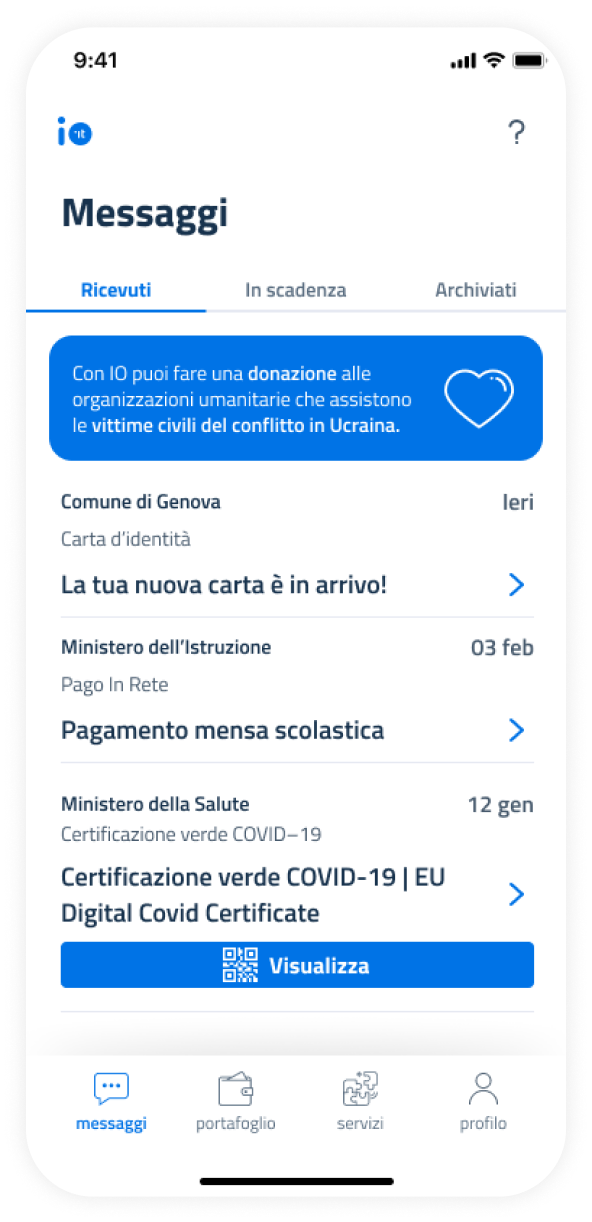
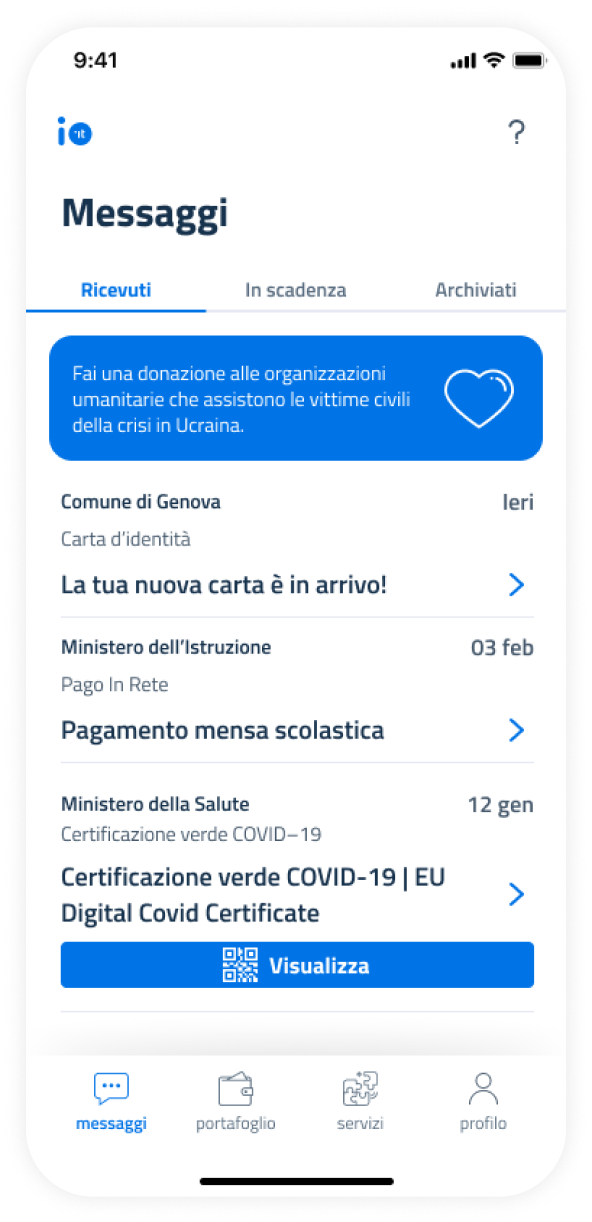
Update content and assets after the internal review

Changed region(s): [[0.1216, 0.2799, 0.6993, 0.3732]]

diff --git a/_includes/donazioni-ucraina-page.html b/_includes/donazioni-ucraina-page.html
@@ -7,11 +7,10 @@
           <div class="row">
               <div class="offset-lg-3 col-lg-6 py-0 py-lg-4">
               <h2 class="my-4 text-primary text-center">
-                Perché questa iniziativa?
+                Vuoi contribuire?
               </h2>
                   <p class="text-primary text-center">
-                    Il conflitto in Ucraina riguarda tutti noi.<br />
-                    Per questo, abbiamo deciso di offrire su IO la possibilità di raccogliere fondi a commissioni zero a favore delle organizzazioni umanitarie che assistono le vittime civili.
+                    In questa pagina, trovi un'anteprima dei principali passaggi che dovrai compiere sull'app IO per fare la tua donazione.
                   </p>
               </div>
           </div><!--/row-->
@@ -34,7 +33,7 @@
               <span class="d-block font-weight-normal">01</span>Apri IO e premi sul box azzurro
               </h3>
             <p>
-              Apri l’app IO ed entra con SPID o CIE. Poi, premi sul banner azzurro che trovi nella parte alta della schermata. Se non lo vedi, vai allo store del tuo dispositivo e verifica di avere scaricato l’ultima versione dell’app. 
+              Apri l’app IO ed entra con SPID o CIE. Poi, premi sul box azzurro che trovi in evidenza nella sezione Messaggi. Se non lo vedi, vai allo store del tuo dispositivo e verifica di avere scaricato l’ultima versione dell’app. 
             </p>
           
           </div>
@@ -59,7 +58,7 @@
               <span class="d-block font-weight-normal">02</span>Scegli a chi donare
               </h3>
             <p>
-              Scegli un’organizzazione umanitaria tra quelle che aderiscono all’iniziativa. Poi, seleziona l’importo che vuoi donare e premi “Continua”.
+              Scegli un’organizzazione umanitaria tra quelle che trovi nella lista. Poi, seleziona l’importo che vuoi donare e premi “Continua”.
             </p>
           </div>
          </div><!--/row-->
@@ -82,7 +81,7 @@
               <h3 class="h2 text-primary pb-4 pt-lg-4">
               <span class="d-block font-weight-normal">03</span>Completa il pagamento
               </h3>
-            <p>Usa la tua carta di credito, debito o prepagata preferita o selezionala dal Portafoglio. Infine, premi “Paga” per completare la donazione: l’organizzazione riceverà l’importo direttamente sul conto corrente. Conserva l’email che ti invieremo: contiene i dati utili ai fini della detrazione.</p>
+            <p>Puoi donare con carta di credito, debito o prepagata. Se hai impostato uno di questi metodi come preferito, comparirà automaticamente. Se no, selezionalo manualmente. Infine, premi “Paga”. L'importo arriverà direttamente sul conto corrente dell'organizzazione e tu riceverai una email con i dati utili per la detrazione.</p>
           </div>
          </div><!--/row-->
       </div><!--/container-->
@@ -91,7 +90,7 @@
     <div class="container py-5 py-md-2">
       <div class="row">
         <div class="col-12 col-md-10 offset-md-1 py-md-5 px-md-5">
-            <h2 class="pb-4 mt-0 text-white text-center mb-2">Non hai ancora l'app IO?<br>
+            <h2 class="pb-4 mt-0 text-white text-center mb-2">Non hai l’app IO?<br>
             </h2>
             <p class="text-center my-2 ">
                 <a href="https://checkout.pagopa.it/dona.html" target="_blank" rel="noopener noreferrer" class="btn btn-sm btn-white text-uppercase text-primary px-5" title="Leggi le FAQ">Dona online</a>

diff --git a/_includes/home/section-donation-ukraine.html b/_includes/home/section-donation-ukraine.html
@@ -4,9 +4,9 @@
       <div class="row py-md-3 px-3 px-md-0">
         <div class="col-12 col-md-7  pr-0 pr-md-5">
         <div class="badge badge-secondary text-uppercase p-2 mb-4 badge-servizio">Dona con IO</div>
-        <h2 class=""><a href="/donazioni-ucraina/" title="Donazione per la crisi umanitaria in Ucraina" class="text-decoration-none text-white">Sostieni le vittime civili della crisi umanitaria in Ucraina</a></h2>
+        <h2 class=""><a href="/donazioni-ucraina/" title="Donazione per la crisi umanitaria in Ucraina" class="text-decoration-none text-white">Emergenza Ucraina: sostieni le vittime civili della crisi umanitaria</a></h2>
         <p class="lead  my-2 my-md-4 text-white">
-          Da oggi, con IO puoi fare una donazione alle organizzazioni umanitarie che assistono le vittime civili della crisi umanitaria in Ucraina. L’importo, detraibile e senza commissioni, verrà versato direttamente sul conto dell’organizzazione a cui scegli di donare.</p>
+          Da oggi, con IO puoi fare una donazione alle organizzazioni umanitarie che assistono le vittime civili della crisi in Ucraina. L’importo, detraibile e senza commissioni, verrà versato direttamente sul conto dell’organizzazione a cui scegli di donare.</p>
          <a href="/donazioni-ucraina/" class="btn btn-sm btn-white text-primary text-uppercase  mt-2 px-5" title="Scopri di più">Scopri di più</a>
          </div><!--/col-->
          <div class="col-12 col-md-5 order-md-1 d-flex align-items-center flex-column position-relative">

diff --git a/it/donazioni-ucraina/index.md b/it/donazioni-ucraina/index.md
@@ -1,9 +1,9 @@
 ---
 layout: internal-w-slides
-title: Sostieni le vittime della crisi umanitaria in Ucraina
+title: 'Emergenza Ucraina: sostieni le vittime civili della crisi umanitaria'
 image: '/assets/img/donazioni-ucraina/social-card-donation.png'
 pre-title: Dona con Io
-description: 'Da oggi, con IO puoi fare una donazione alle organizzazioni umanitarie che assistono le vittime del conflitto in Ucraina. L’importo, detraibile e senza commissioni, verrà versato direttamente sul conto  dell’organizzazione a cui scegli di donare.'
+description: 'Da oggi, con IO puoi fare una donazione alle organizzazioni umanitarie che assistono le vittime civili della crisi in Ucraina. L’importo, detraibile e senza commissioni, verrà versato direttamente sul conto  dell’organizzazione a cui scegli di donare.'
 subdescription: 'Scarica l’ultima versione dell’app:'
 lang: it
 ref: donazioni-ucraina
